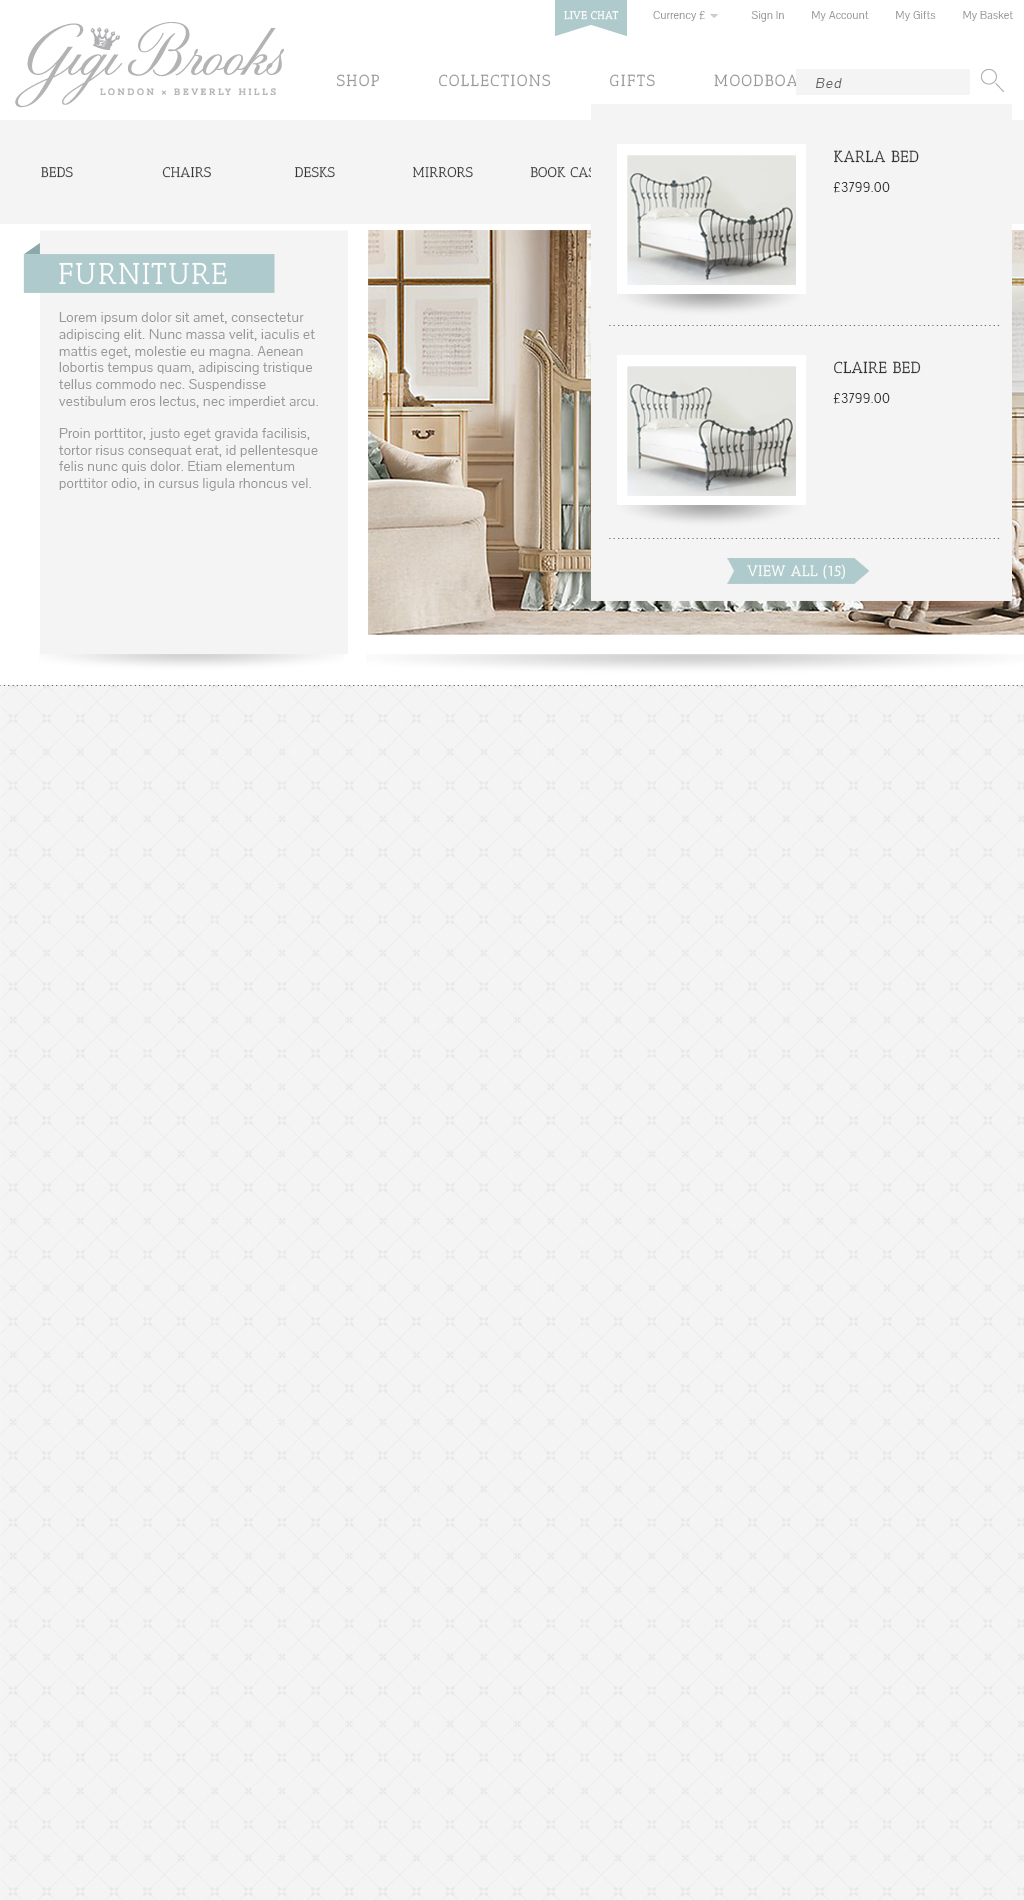
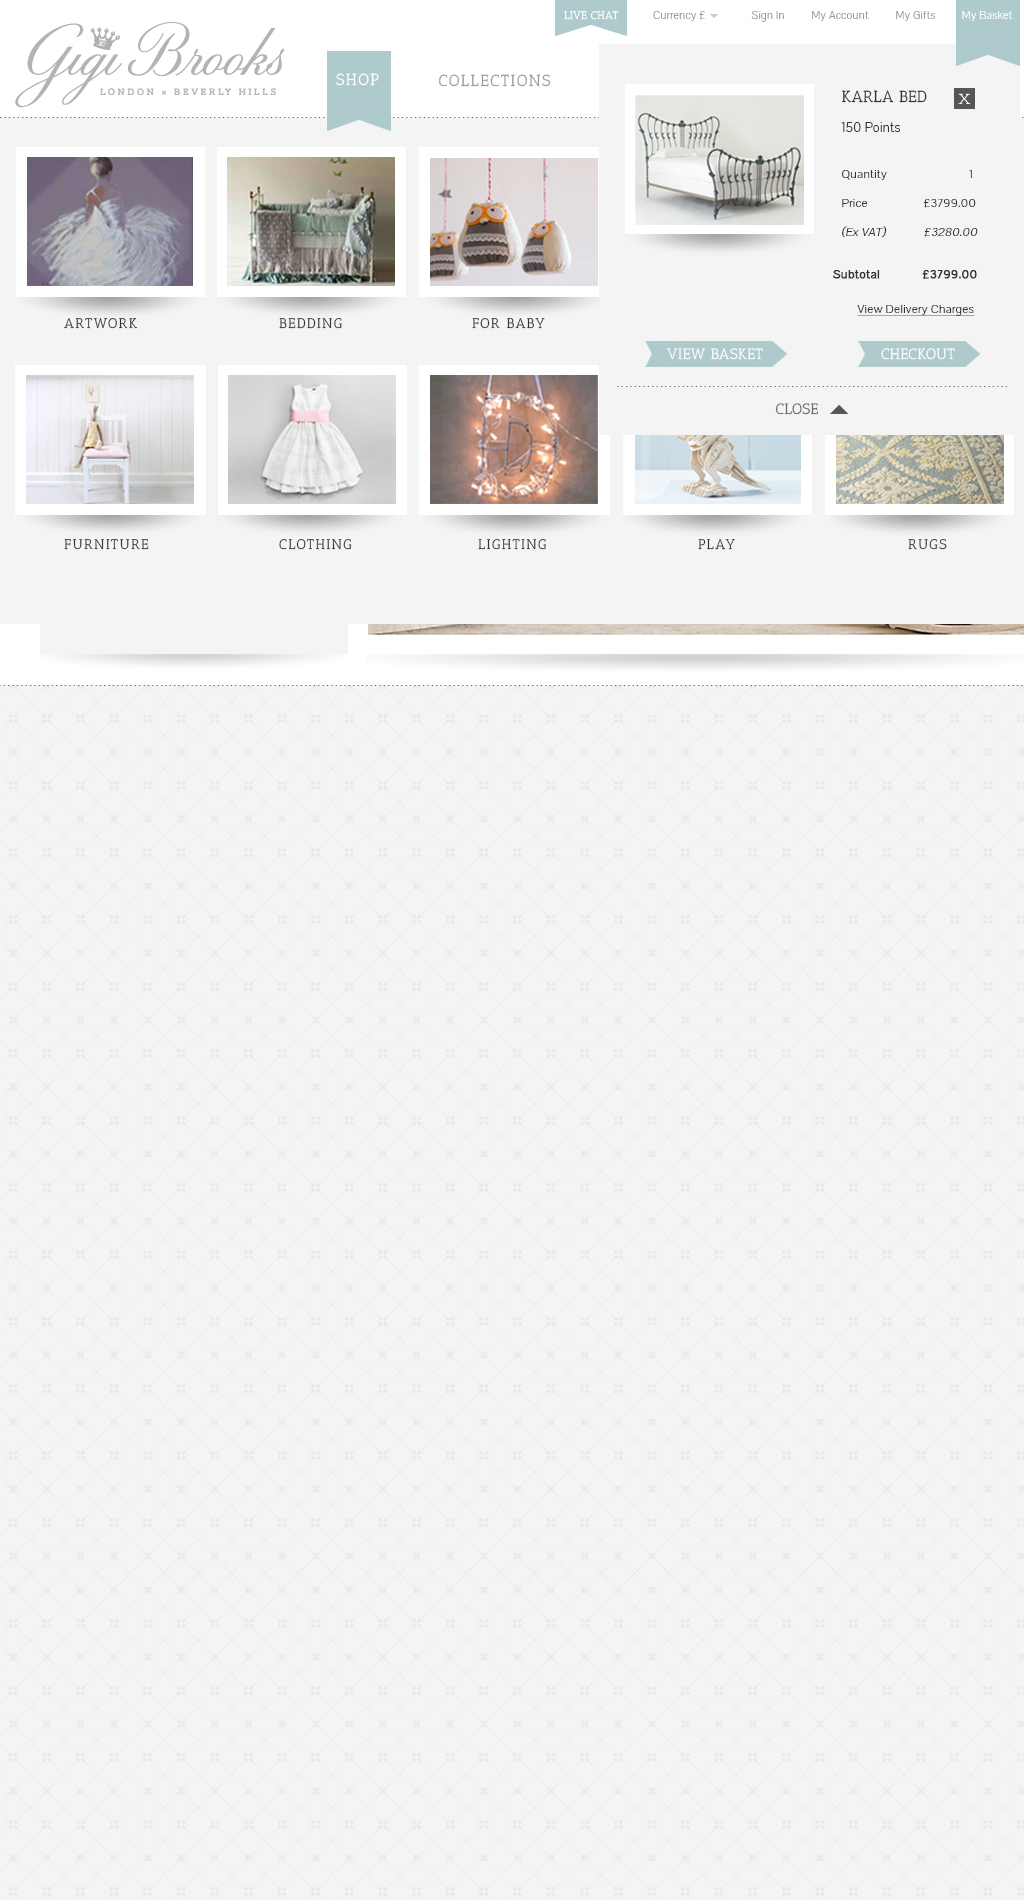
My basked toggle menu added.

diff --git a/index.html b/index.html
@@ -19,7 +19,10 @@
             <div class="menu-wrap">
                 <div class="top-bar">
                     <ul class="top-bar-list list-bar">
-                        <li><a>My basket</a></li>
+                        <li class="basket-button">
+                            <img src="img/rect.png" class="active-img hideaway-img">
+                            <a>My basket</a>
+                        </li>
                         <li><a>My gifts</a></li>
                         <li><a>My account</a></li>
                         <li><a>Sign In</a></li>
@@ -29,6 +32,48 @@
                             <a>Live chat</a>
                         </li>
                     </ul>
+                    <div class="basket-bar">
+                        <div class="basket-bar-content-wrap">
+                            <img class="thumbnail" src="img/bed.jpg"/>
+                            <div class="basket-bar-content">
+                                <img src="img/cross.png" class="cross">
+                                <p class="product-caption">KARLA BED</p>
+                                <p class="points">150 Points</p>
+                                <div class="product-info">
+                                    <div class="left-column">
+                                        <p class="first-p">Quantity</p>
+                                        <p>Price</p>
+                                        <p class="last-p"><em>(Ex VAT)</em></p>
+                                        <p class="subtotal-margin no-margin-left">Subtotal</p>
+                                    </div><!-- End left-column -->
+                                    <div class="right-column">
+                                        <p class="first-p">1</p>
+                                        <p>3799.00</p>
+                                        <p class="last-p">3280.00</p>
+                                        <p class="subtotal-margin">3799.00</p>
+                                    </div><!-- End right-column -->
+                                </div><!-- End product-info -->
+                                <div class="delivery-charges-wrap">
+                                    <p><span>View Delivery Charges</span></p>
+                                </div>
+                            </div>
+                            <div class="basket-bar-buttons">
+                                <div class="button-left">
+                                    <div class="arrowed">
+                                        View Basket
+                                    </div>
+                                </div>
+                                <div class="button-right">
+                                    <div class="arrowed">
+                                        Checkout
+                                    </div>
+                                </div>
+                            </div>
+                        </div>
+                        <div class="basket-bar-close">
+                            Close  &#9650
+                        </div>
+                    </div><!-- End basket-bar -->
                 </div> <!-- End top-bar-->
                 <div class="bottom-bar">
                     <div class="bottom-bar-list-section ">
@@ -49,7 +94,7 @@
                                 <div class="opened-search-bar-content">
                                     <div class="offer-section">
                                         <div class="offer-section-container">
-                                            <img src="img/bed.jpg"/>
+                                            <img class="thumbnail" src="img/bed.jpg"/>
                                             <div class="offer-section-text">
                                                 <h1>Karla bed</h1>
                                                 <p>&#163 3799.00</p>
@@ -58,7 +103,7 @@
                                     </div><!-- End offer-section-->
                                     <div class="offer-section">
                                         <div class="offer-section-container">
-                                            <img src="img/bed.jpg"/>
+                                            <img class="thumbnail" src="img/bed.jpg"/>
                                             <div class="offer-section-text">
                                                 <h1>Karla bed</h1>
                                                 <p>&#163 3799.00</p>
@@ -93,7 +138,7 @@
             <aside>
                 <article>
                     <div class="caption-holder">
-                        <div class="caption">
+                        <div class="caption-bg">
                         </div>
                         <p>Furniture</p>
                     </div> <!-- End caption-holder -->

diff --git a/css/styles.css b/css/styles.css
@@ -11,7 +11,7 @@
 
 
 .background-sample{
-    /*opacity: 0.8;*/
+    opacity: 0.6;
     display:block;
     position:absolute;
     left:0;
@@ -89,11 +89,14 @@ header {
     /*background-color: aqua;*/
     width: 100%;
     height: 25%;
+
 }
 
 
 .top-bar-list li a {
     padding: 6px 7px;
+    z-index: 3;
+    position: relative;
 }
 
 .top-bar-list {
@@ -106,10 +109,161 @@ header {
     margin-right: 5px;
 }
 
+/*Basket bar */
+.basket-bar{
+    width: 427px;
+    height: 390px;
+    background-color: #f4f4f4;
+    position: relative;
+    left: 290px;
+    top: 45px;
+    display: none;
+    /*opacity: 0.4;*/
+}
+.basket-bar-content-wrap{
+    display: inline-block;
+    margin: 0px 13px;
+    margin-top: 13;
+    width: 400px;
+    height: 300px;
+    /*background-color: yellow;*/
+    border-bottom: 1px dashed #484848;
+}
+.basket-bar-content-wrap .thumbnail{
+    margin: 0px 15px;
+}
+.basket-bar-content{
+    width: 175px;
+    height: 80%;
+    /*background-color: #b3b3b2;*/
+    float: left;
+    font-family: Arial;
+}
+.cross{
+    position: relative;
+    left: 124px;
+    top: 3px;
+    float:left;
+}
+.basket-button .active-img{
+    top: -10px;
+    z-index: 2;
+    display: none;
+}
+.clicked{
+    color: white;
+}
+
+.black-button{
+    width: 25px;
+    height: 25px;
+    background-color: #484848;
+    color: #f4f4f4;
+    position: relative;
+    right: 250px;
+}
+.basket-bar-content .product-caption{
+    font-family: "Zamenitelj";
+    text-transform: uppercase;
+    font-size: 15px;
+    margin-top: 4px;
+    margin-left: 11px;
+}
+.basket-bar-content .points {
+    font-size:13px;
+    margin-left: 10px;
+}
+.product-info{
+    font-family: "Arial";
+    font-size: 12px;
+}
+.product-info .left-column, .basket-bar-content .right-column{
+    width: 50%;
+    height: 60%;
+    float: left;
+    /*background-color: white;*/
+
+}
+.first-p{
+    margin-top: 20px;
+}
+.last-p{
+    margin-top: 15px;
+}
+.no-margin-left{
+    margin-left: 2px !important;
+}
+.subtotal-margin{
+    margin-top: 30px !important;
+}
+
+.product-info .left-column p{
+    margin-left: 11px;
+}
+.product-info .right-column p{
+    text-align: right;
+    margin-right: 29px;
+}
+.delivery-charges-wrap{
+    width: 100%;
+    height: 32px;
+    /*background-color: green;*/
+    clear: both;
+    font-family: Arial;
+    font-size: 12px;
+    text-align: center;
+    line-height: 32px;
+}
+.delivery-charges-wrap span{
+    text-decoration: underline;
+}
+.arrowed{
+    background-image: url("../img/arrow2.png");
+    height: 26px;
+    width: 143px;
+    margin-left: 35px;
+    margin-top: 16px;
+    text-transform: uppercase;
+    text-align: center;
+    font-family: "Zamenitelj";
+    line-height: 26px;
+    color: white;
+}
+.basket-bar-close{
+    margin: 0px 13px;
+    width: 400px;
+    height: 49px;
+    /*background-color: orange;*/
+    line-height: 49px;
+    text-align: center;
+    text-transform: uppercase;
+
+}
+
+
+.basket-bar-buttons{
+    /*background-color: aqua;*/
+    clear: both;
+    width: 100%;
+    height: 20%;
+}
+.button-left, .button-right{
+    width: 50%;
+    height: 100%;
+    /*background-color: blue;*/
+    float: left;
+}
+.button-left{
+    /*background-color: orange;*/
+}
+
+
+
+
 .active-img{
     position: absolute;
     display: inline;
-    z-index: -1;
+    z-index: 0;
     top:-35px;
 }
 .active{
@@ -193,10 +347,11 @@ nav .bottom-bar-list li:hover{
     height: 218px;
     border-bottom: 1px dashed black
 }
-.offer-section-container img{
+.thumbnail{
     border: 10px solid white;
     float: left;
     box-shadow: 0px 25px 40px -21px  ;
+    /*TO DO Add box shadow * */
 }
 .offer-section-container{
     display: inline-block;
@@ -270,7 +425,7 @@ aside{
     height: 70px;
     background-color: #f4f4f4;
 }
-.caption{
+.caption-bg{
     position: relative;
     top: 13px;
     left: -16px;
@@ -290,12 +445,6 @@ aside{
     padding: 0;
 }
 
-
-.caption-bg{
-    margin-top: 13px;
-    display: block;
-    margin-left: -17px;
-}
 
 article{
     height: 90%;

diff --git a/js/script.js b/js/script.js
@@ -12,4 +12,19 @@ $(document).ready(function(){
             $openedSearchBar.stop().hide(180);
         }
     );
+
+    $('.basket-button').click(
+        function () {
+            $(this).addClass('clicked');
+            $('.basket-button .active-img').show();
+            $('.basket-bar').stop().show();
+        }
+    );
+    $('.basket-bar-close').click(
+        function () {
+            $('.basket-button').removeClass('clicked');
+            $('.basket-button .active-img').hide();
+            $('.basket-bar').stop().hide();
+        }
+    );
 });
